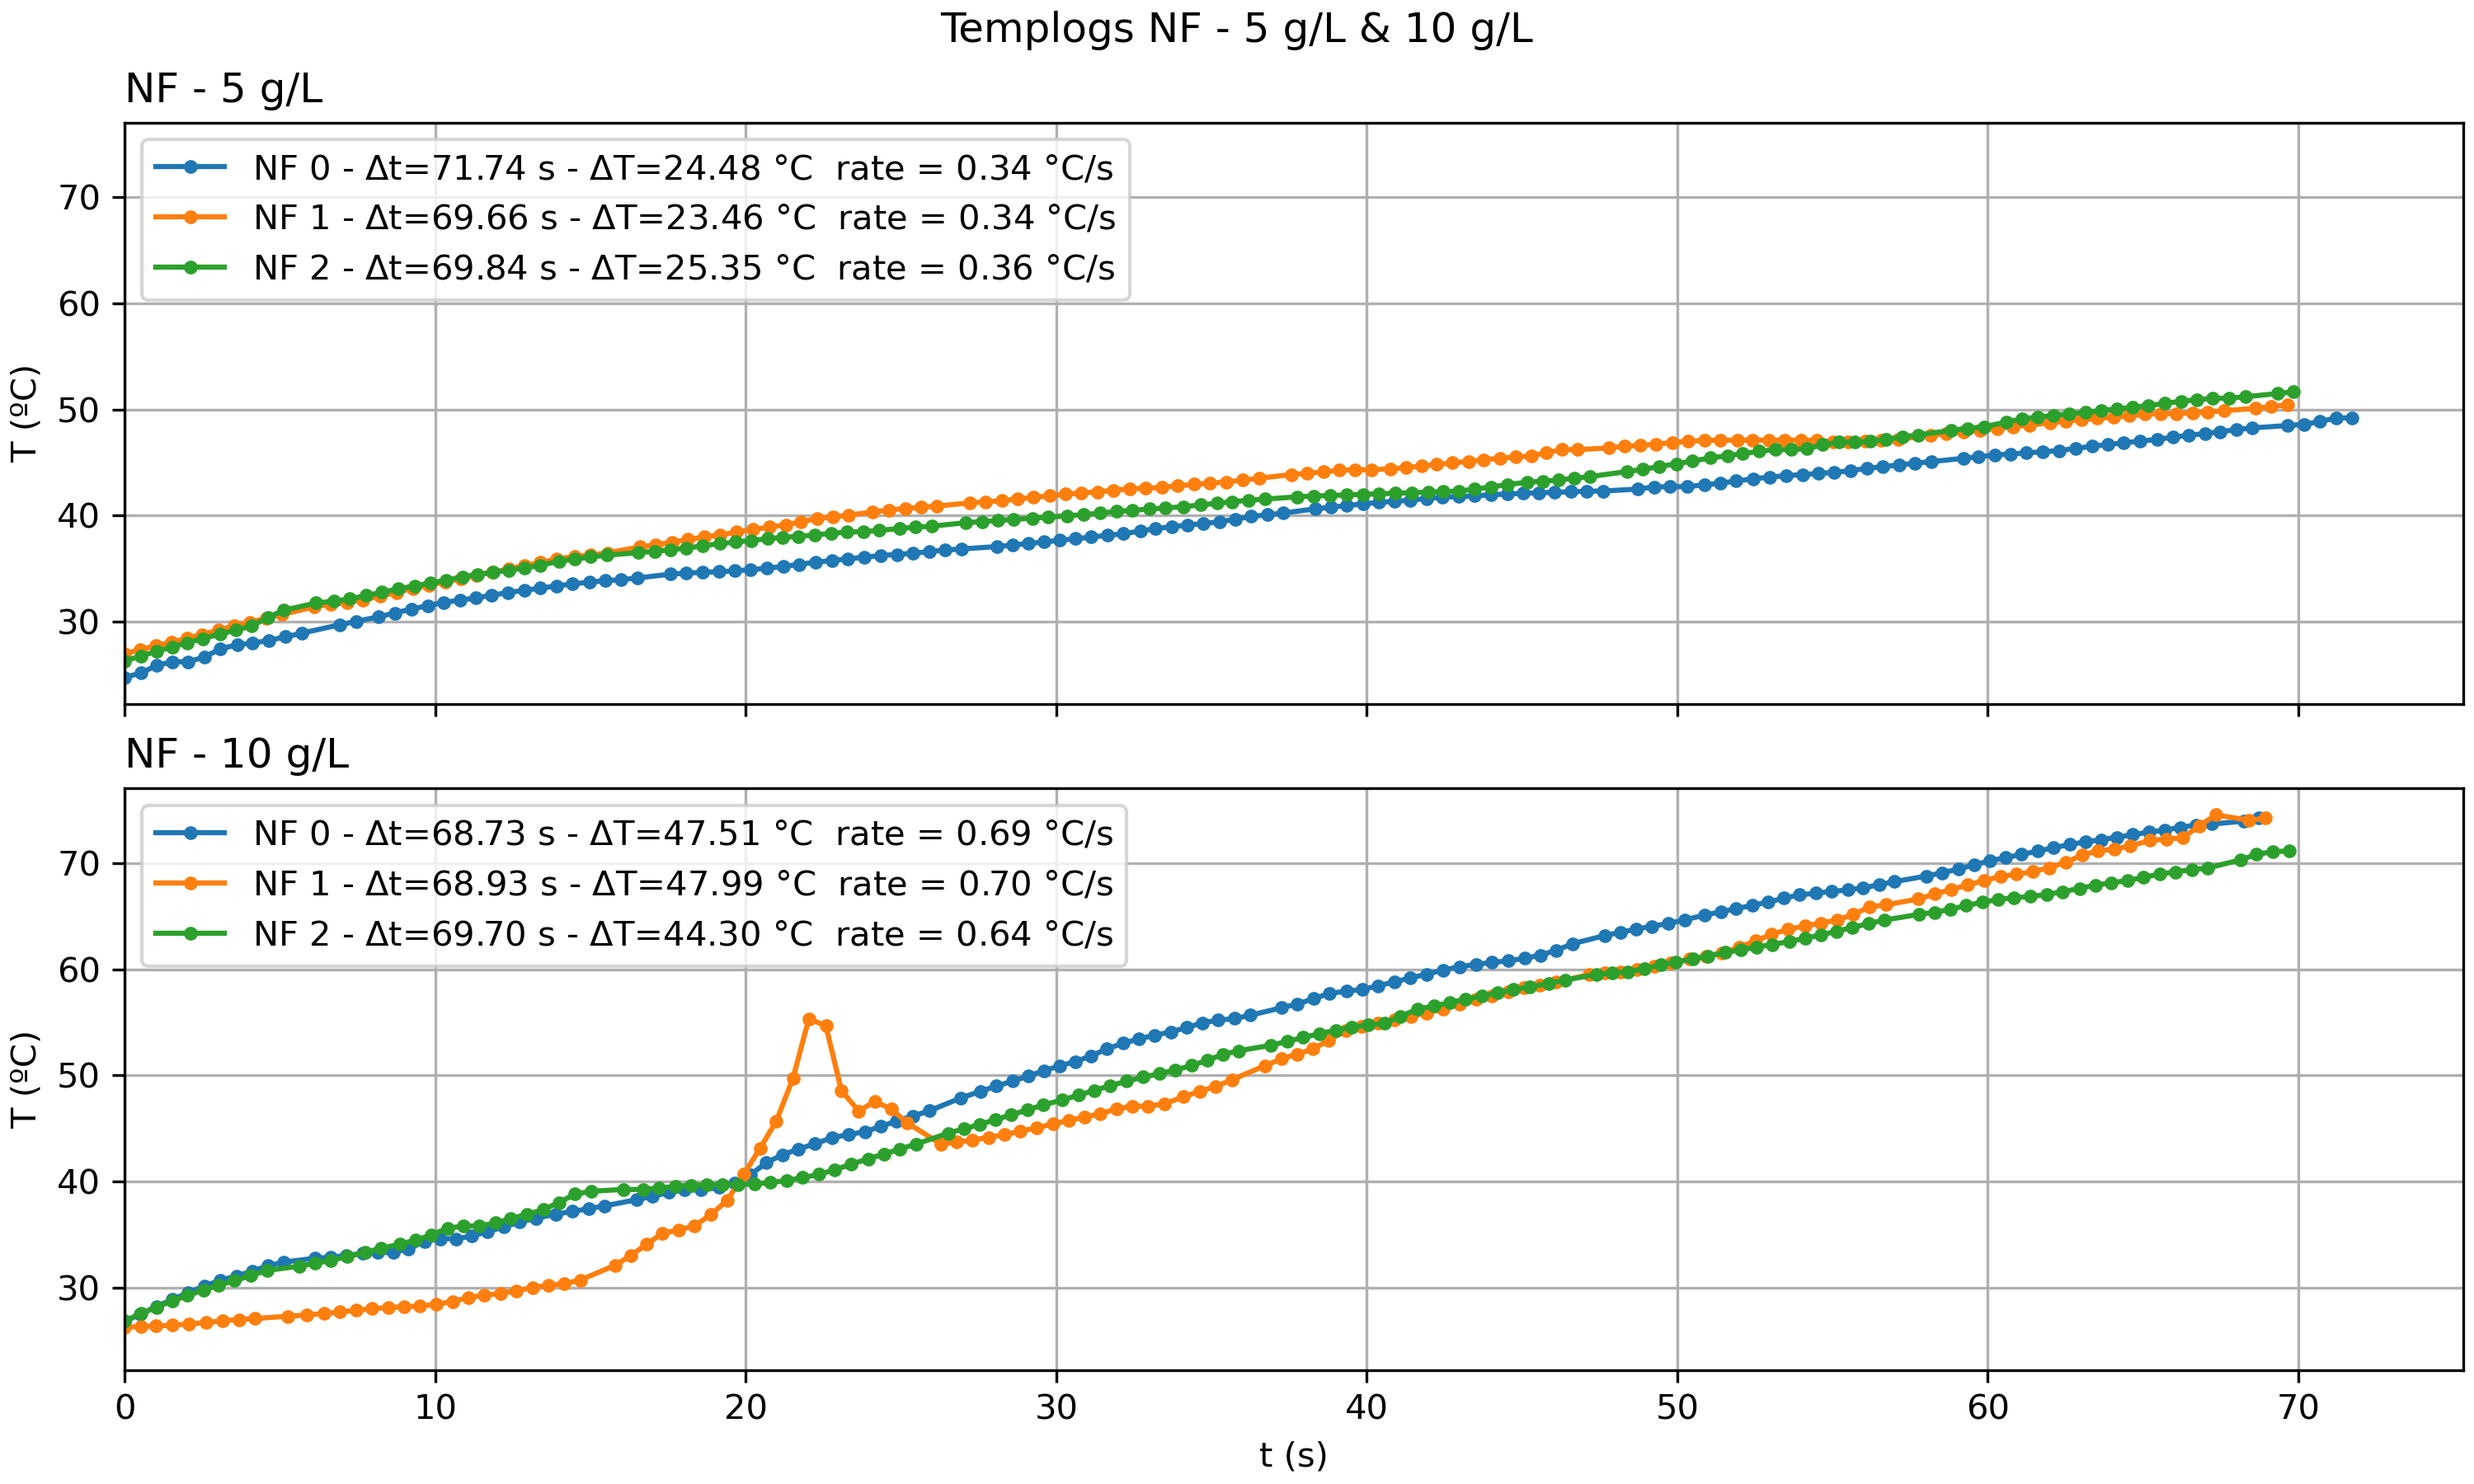
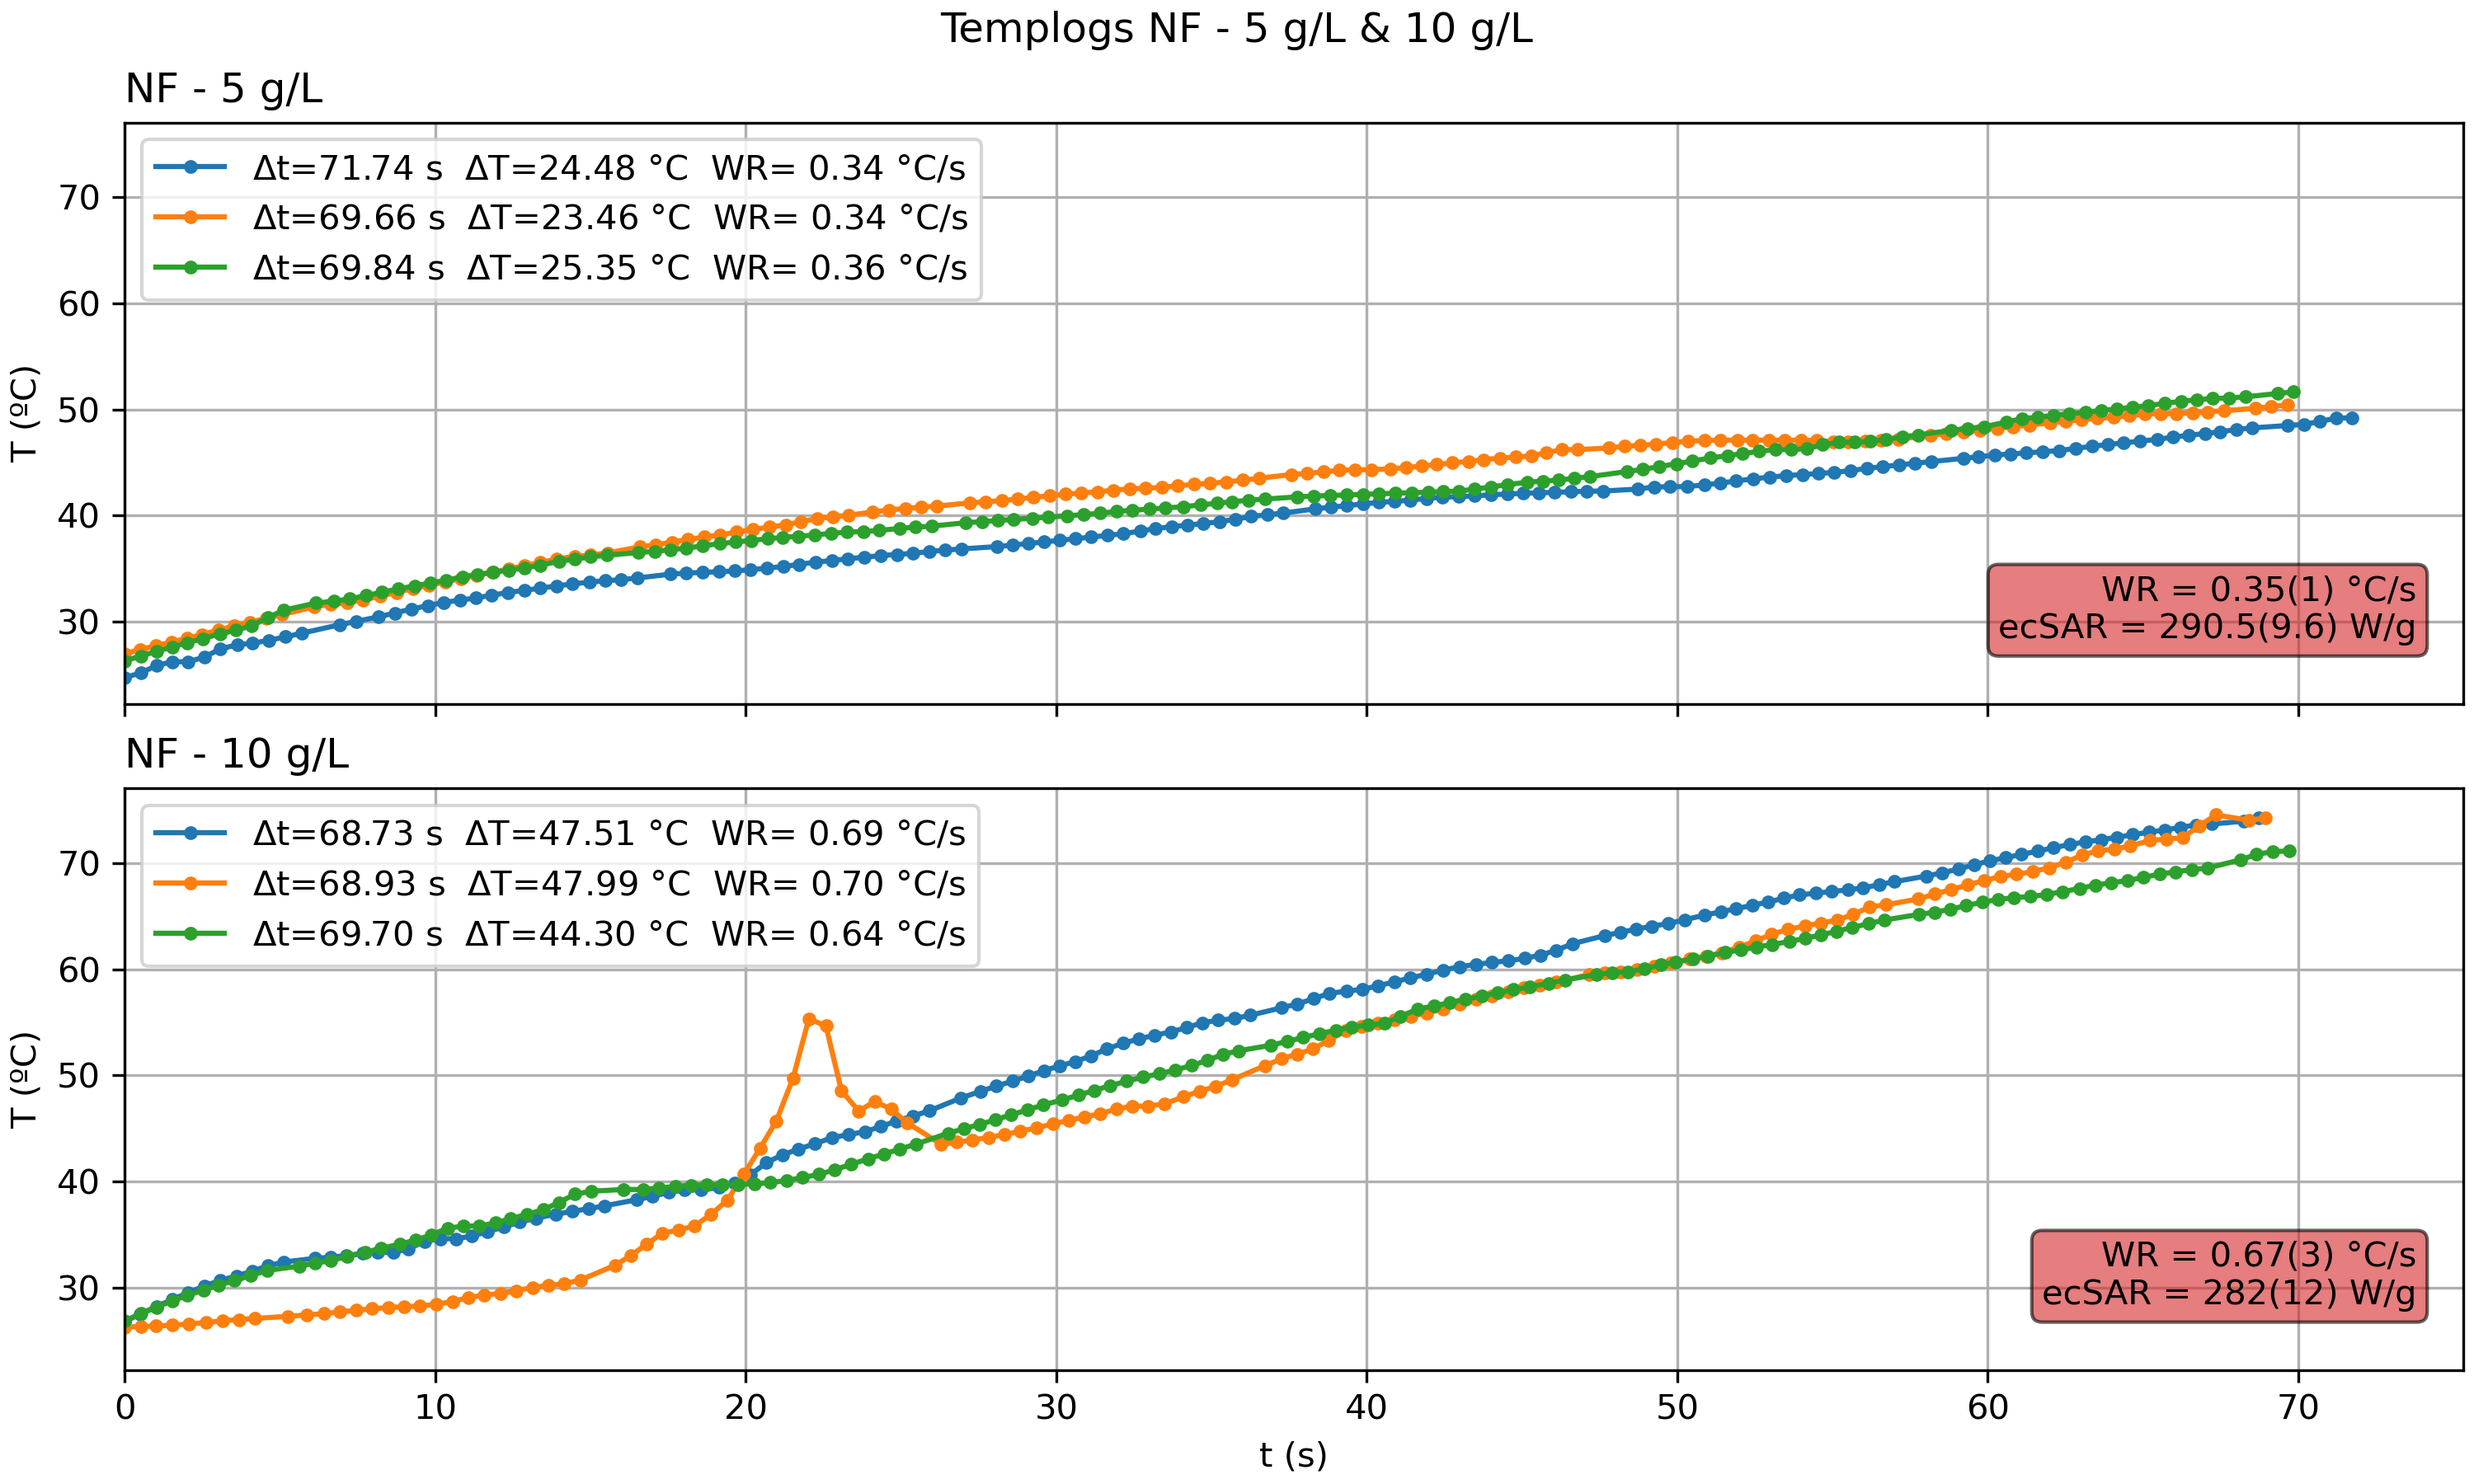
presentacion

diff --git a/comparativa_NF_CPA.py b/comparativa_NF_CPA.py
@@ -148,7 +148,7 @@ for i,e in enumerate(ciclos_05):
 
 for i,e in enumerate(ciclos_10):
     _,_,_, H_10,M_10,_ = lector_ciclos(ciclos_10[i])
-    ax2.plot(H_10/1000,M_10,'-',label=f'NF{i}')
+    ax2.plot(H_10/1000,M_10,'-',label=f'NF{i+3}')
 
 ax.set_ylabel('M (A/m)')
 ax.set_title('NF - 5 g/L',loc='center')
@@ -166,28 +166,53 @@ res_10=[]
 for r in resultados_10:
     res_10.append(ResultadosESAR(os.path.dirname(r)))
 
-#%% 1- Templogs
-
+#%% 1- Templogs y ecSAR
+conc_05 = 5 #g/L
+conc_10 = 10 #g/L
+ecSAR_05=[]
+ecSAR_10=[]
+rates_05=[]
+rates_10=[]
 fig1, (ax,ax2) =plt.subplots(2,1,figsize=(10,6),constrained_layout=True,sharey=True,sharex=True)
 
 for i,r in enumerate(res_05):
     dt = r.time[-1]-r.time[0]
     dT = r.temperatura[-1]-r.temperatura[0]
     rate=dT/dt
-    label=f'NF {i} - $\Delta$t={dt:.2f} s - $\Delta$T={dT:.2f} °C  rate = {rate:.2f} °C/s'
+    rates_05.append(rate)
+    ecSAR_05.append(rate*4186/conc_05)
+    label=f'$\Delta$t={dt:.2f} s  $\Delta$T={dT:.2f} °C  WR= {rate:.2f} °C/s'
     ax.plot(r.time,r.temperatura,'.-',label=label)
 
 for i,r in enumerate(res_10):
     dt = r.time[-1]-r.time[0]
     dT = r.temperatura[-1]-r.temperatura[0]
     rate=dT/dt
-    label=f'NF {i} - $\Delta$t={dt:.2f} s - $\Delta$T={dT:.2f} °C  rate = {rate:.2f} °C/s'
+    rates_10.append(rate)
+    ecSAR_10.append(rate*4186/conc_10)
+    label=f'$\Delta$t={dt:.2f} s  $\Delta$T={dT:.2f} °C  WR= {rate:.2f} °C/s'
     ax2.plot(r.time,r.temperatura,'.-',label=label)
 
 for a in ax,ax2:
     a.grid()
     a.legend(loc='upper left')
     a.set_ylabel('T (ºC)')
+rate_05=ufloat(np.mean(rates_05),np.std(rates_05))
+rate_10=ufloat(np.mean(rates_10),np.std(rates_10))
+
+ecSAR_05=ufloat(np.mean(ecSAR_05),np.std(ecSAR_05))
+ecSAR_10=ufloat(np.mean(ecSAR_10),np.std(ecSAR_10))
+
+ax.text(0.98,0.1,f'WR = {rate_05:.1uS} °C/s\necSAR = {ecSAR_05:.2uS} W/g',
+        bbox=dict(boxstyle="round", fc='C3',alpha=0.6,lw=1),
+        ha='right',va='bottom',
+        transform=ax.transAxes)
+
+ax2.text(0.98,0.1,f'WR = {rate_10:.1uS} °C/s\necSAR = {ecSAR_10:.2uS} W/g',
+        bbox=dict(boxstyle="round", fc='C3',alpha=0.6,lw=1),
+        ha='right',va='bottom',
+        transform=ax2.transAxes)
+
 ax.set_xlim(0,)
 ax.set_title('NF - 5 g/L',loc='left')
 ax2.set_title('NF - 10 g/L',loc='left')    
@@ -233,6 +258,11 @@ plt.suptitle('tau NF vs temperatura - 5 g/L & 10 g/L')
 
 #%% 3 - SAR vs time / Temp
 
+ESAR_05_all=ufloat(np.mean(np.concatenate([r.SAR for r in res_05])),np.std(np.concatenate([r.SAR for r in res_05])))
+ESAR_10_all=ufloat(np.mean(np.concatenate([r.SAR for r in res_10])),np.std(np.concatenate([r.SAR for r in res_10])))
+
+text_05 = f'ESAR = {ESAR_05_all:.2uS} W/g'
+text_10 = f'ESAR = {ESAR_10_all:.2uS} W/g'
 fig30, (ax,ax2) =plt.subplots(2,1,figsize=(10,6),constrained_layout=True,sharey=True,sharex=True)
 
 for i,r in enumerate(res_05):
@@ -241,9 +271,21 @@ for i,r in enumerate(res_05):
 for i,r in enumerate(res_10):
     ax2.plot(r.time,r.SAR,'.-',label=f'NF {i}')
 
+
+ax.text(0.95,0.9,f'ESAR = {ESAR_05_all:.2uS} W/g',
+        bbox=dict(boxstyle="round", fc='C3',alpha=0.6,lw=1),
+        ha='right',va='top',
+        transform=ax.transAxes)
+
+ax2.text(0.95,0.9,f'ESAR = {ESAR_10_all:.2uS} W/g',
+        bbox=dict(boxstyle="round", fc='C3',alpha=0.6,lw=1),
+        ha='right',va='top',
+        transform=ax2.transAxes)
+
+
 for a in ax,ax2:
     a.grid()
-    a.legend(loc='upper right')
+    #a.legend(loc='upper right')
     a.set_ylabel('SAR (W/g)')
 ax.set_xlim(0,)
 ax.set_title('NF - 5 g/L',loc='left')
@@ -259,15 +301,28 @@ for i,r in enumerate(res_05):
 for i,r in enumerate(res_10):
     ax2.plot(r.temperatura,r.SAR,'.-',label=f'NF {i}')
 
+
+ax.text(0.95,0.9,f'ESAR = {ESAR_05_all:.2uS} W/g',
+        bbox=dict(boxstyle="round", fc='C3',alpha=0.6,lw=1),
+        ha='right',va='top',
+        transform=ax.transAxes)
+
+ax2.text(0.95,0.9,f'ESAR = {ESAR_10_all:.2uS} W/g',
+        bbox=dict(boxstyle="round", fc='C3',alpha=0.6,lw=1),
+        ha='right',va='top',
+        transform=ax2.transAxes)
+
+
 for a in ax,ax2:
     a.grid()
-    a.legend(loc='upper right')
+    #a.legend(loc='upper right')
     a.set_ylabel('SAR (W/g)')
 ax.set_xlim(24,75)
 ax.set_title('NF - 5 g/L',loc='left')
 ax2.set_title('NF - 10 g/L',loc='left')    
 ax2.set_xlabel('T (°C)')
 plt.suptitle('SAR NF vs temperatura - 5 g/L & 10 g/L')
+
 
 #%% 4 - Hc vs time/Temp
 
@@ -360,8 +415,8 @@ names=['ciclos_promedio_NF5_NF10',
        'templog_NF5_NF10',
        'tau_vs_time_NF5_NF10',
        'tau_vs_Temp_NF5_NF10',
-       'SAR_vs_time_NF5_NF10',
-       'SAR_vs_Temp_NF5_NF10',
+       'ESAR_vs_time_NF5_NF10',
+       'ESAR_vs_Temp_NF5_NF10',
        'Hc_vs_time_NF5_NF10',
        'Hc_vs_Temp_NF5_NF10',
        'Mmax_vs_time_NF5_NF10',
